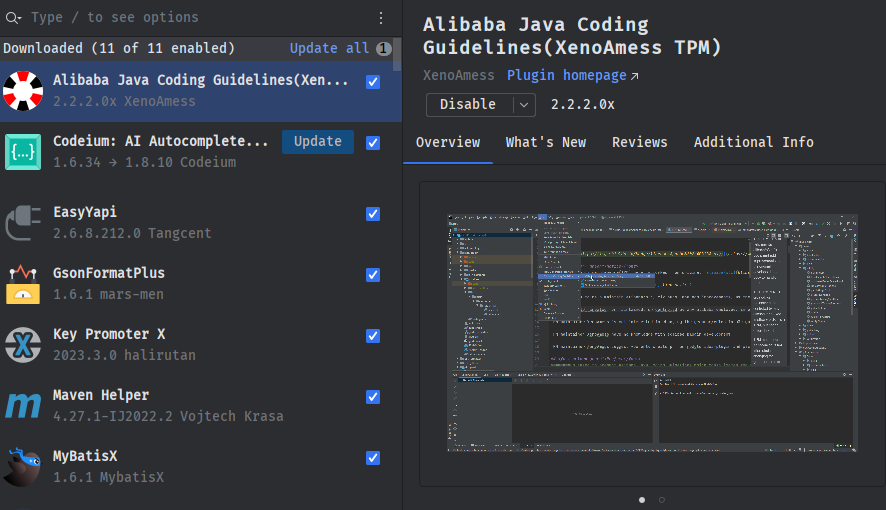
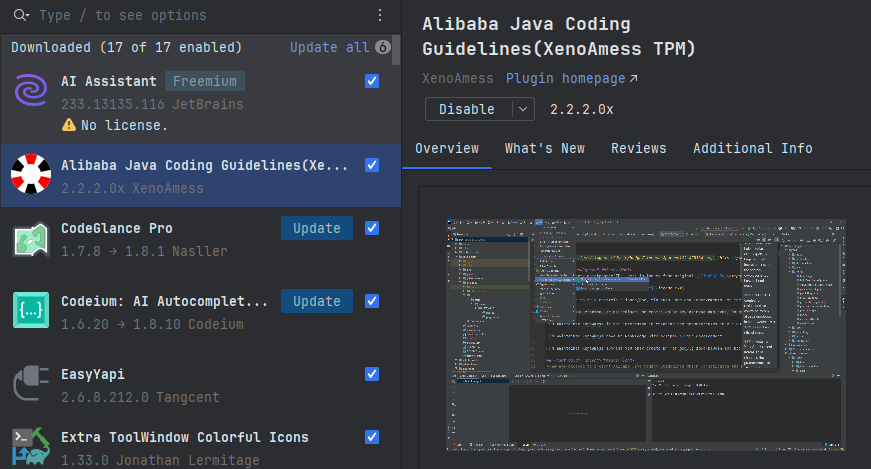
添加

diff --git a/编程分享/工具推荐/常用的IDEA插件推荐.md b/编程分享/工具推荐/常用的IDEA插件推荐.md
@@ -29,10 +29,9 @@ tags:
 ![](./images/image.png)
 推荐理由：阿里巴巴Java开发规范配套插件（p3c），现已成为Java工程师必备工具，无需多言。
 
-推荐等级：★★★★★
+推荐等级：⭐⭐⭐⭐⭐
 
 插件地址：`https://plugins.jetbrains.com/plugin/14109-alibaba-java-coding-guidelines-xenoamess-tpm-`
-
 
 
 
@@ -43,7 +42,7 @@ tags:
 ![](./images/image01.png)
 推荐理由：Codeium 是现代编码的超级力量，是一个基于尖端人工智能技术构建的免费代码加速工具包。 目前，Codeium 提供 70 多种语言的代码补全工具，具有闪电般的速度和最先进的建议质量。
 
-推荐等级：★★★★★
+推荐等级：⭐⭐⭐⭐⭐
 
 插件地址：`https://plugins.jetbrains.com/plugin/20540-codeium-ai-autocomplete-and-chat-for-python-js-java-go--`
 
@@ -55,9 +54,48 @@ tags:
 ![](./images/image2.png)
 推荐理由：使用maven构建项目时所必须要有的依赖。
 
-推荐等级：★★★★★
+推荐等级：⭐⭐⭐⭐⭐
 
 插件地址：`https://plugins.jetbrains.com/plugin/7179-maven-helper`
 
 
 
+### 4. Rainbow Brackets
+
+> 该插件会让相关代码块所包括的括号为彩色成对出现，通过该插件可以更便利查阅代码。
+
+![](./images/image03.png)
+推荐理由：给项目相关代码快提供彩色括号
+
+推荐等级：⭐⭐⭐⭐⭐
+
+插件地址：`https://plugins.jetbrains.com/plugin/10080-rainbow-brackets`
+
+效果图：
+![](./images/image04.png)
+
+
+### 5. RestfulTool
+
+> restful风格工具插件，通过该插件可以快速定位到某个controller相关的接口，以及直接查看该controller下面所有的接口路径
+
+![](./images/image05.png)
+推荐理由：一键查看所有接口路径
+
+推荐等级：⭐⭐⭐⭐
+
+插件地址：`https://plugins.jetbrains.com/plugin/14280-restfultool`
+
+
+
+
+### 6. Tabnine: AI Code Completion & Chat in Java JS/TS Python & More
+
+> Tabnine 是一款 AI 代码助手，可让您成为更好的开发人员，通过所有最流行的编码语言和 IDE 中的实时代码完成、聊天和代码生成来帮助您提高开发速度
+
+![](./images/image06.png)
+推荐理由：智能AI代码生成插件
+
+推荐等级：⭐⭐⭐⭐⭐
+
+插件地址：`https://plugins.jetbrains.com/plugin/12798-tabnine-ai-code-completion--chat-in-java-js-ts-python--more`
